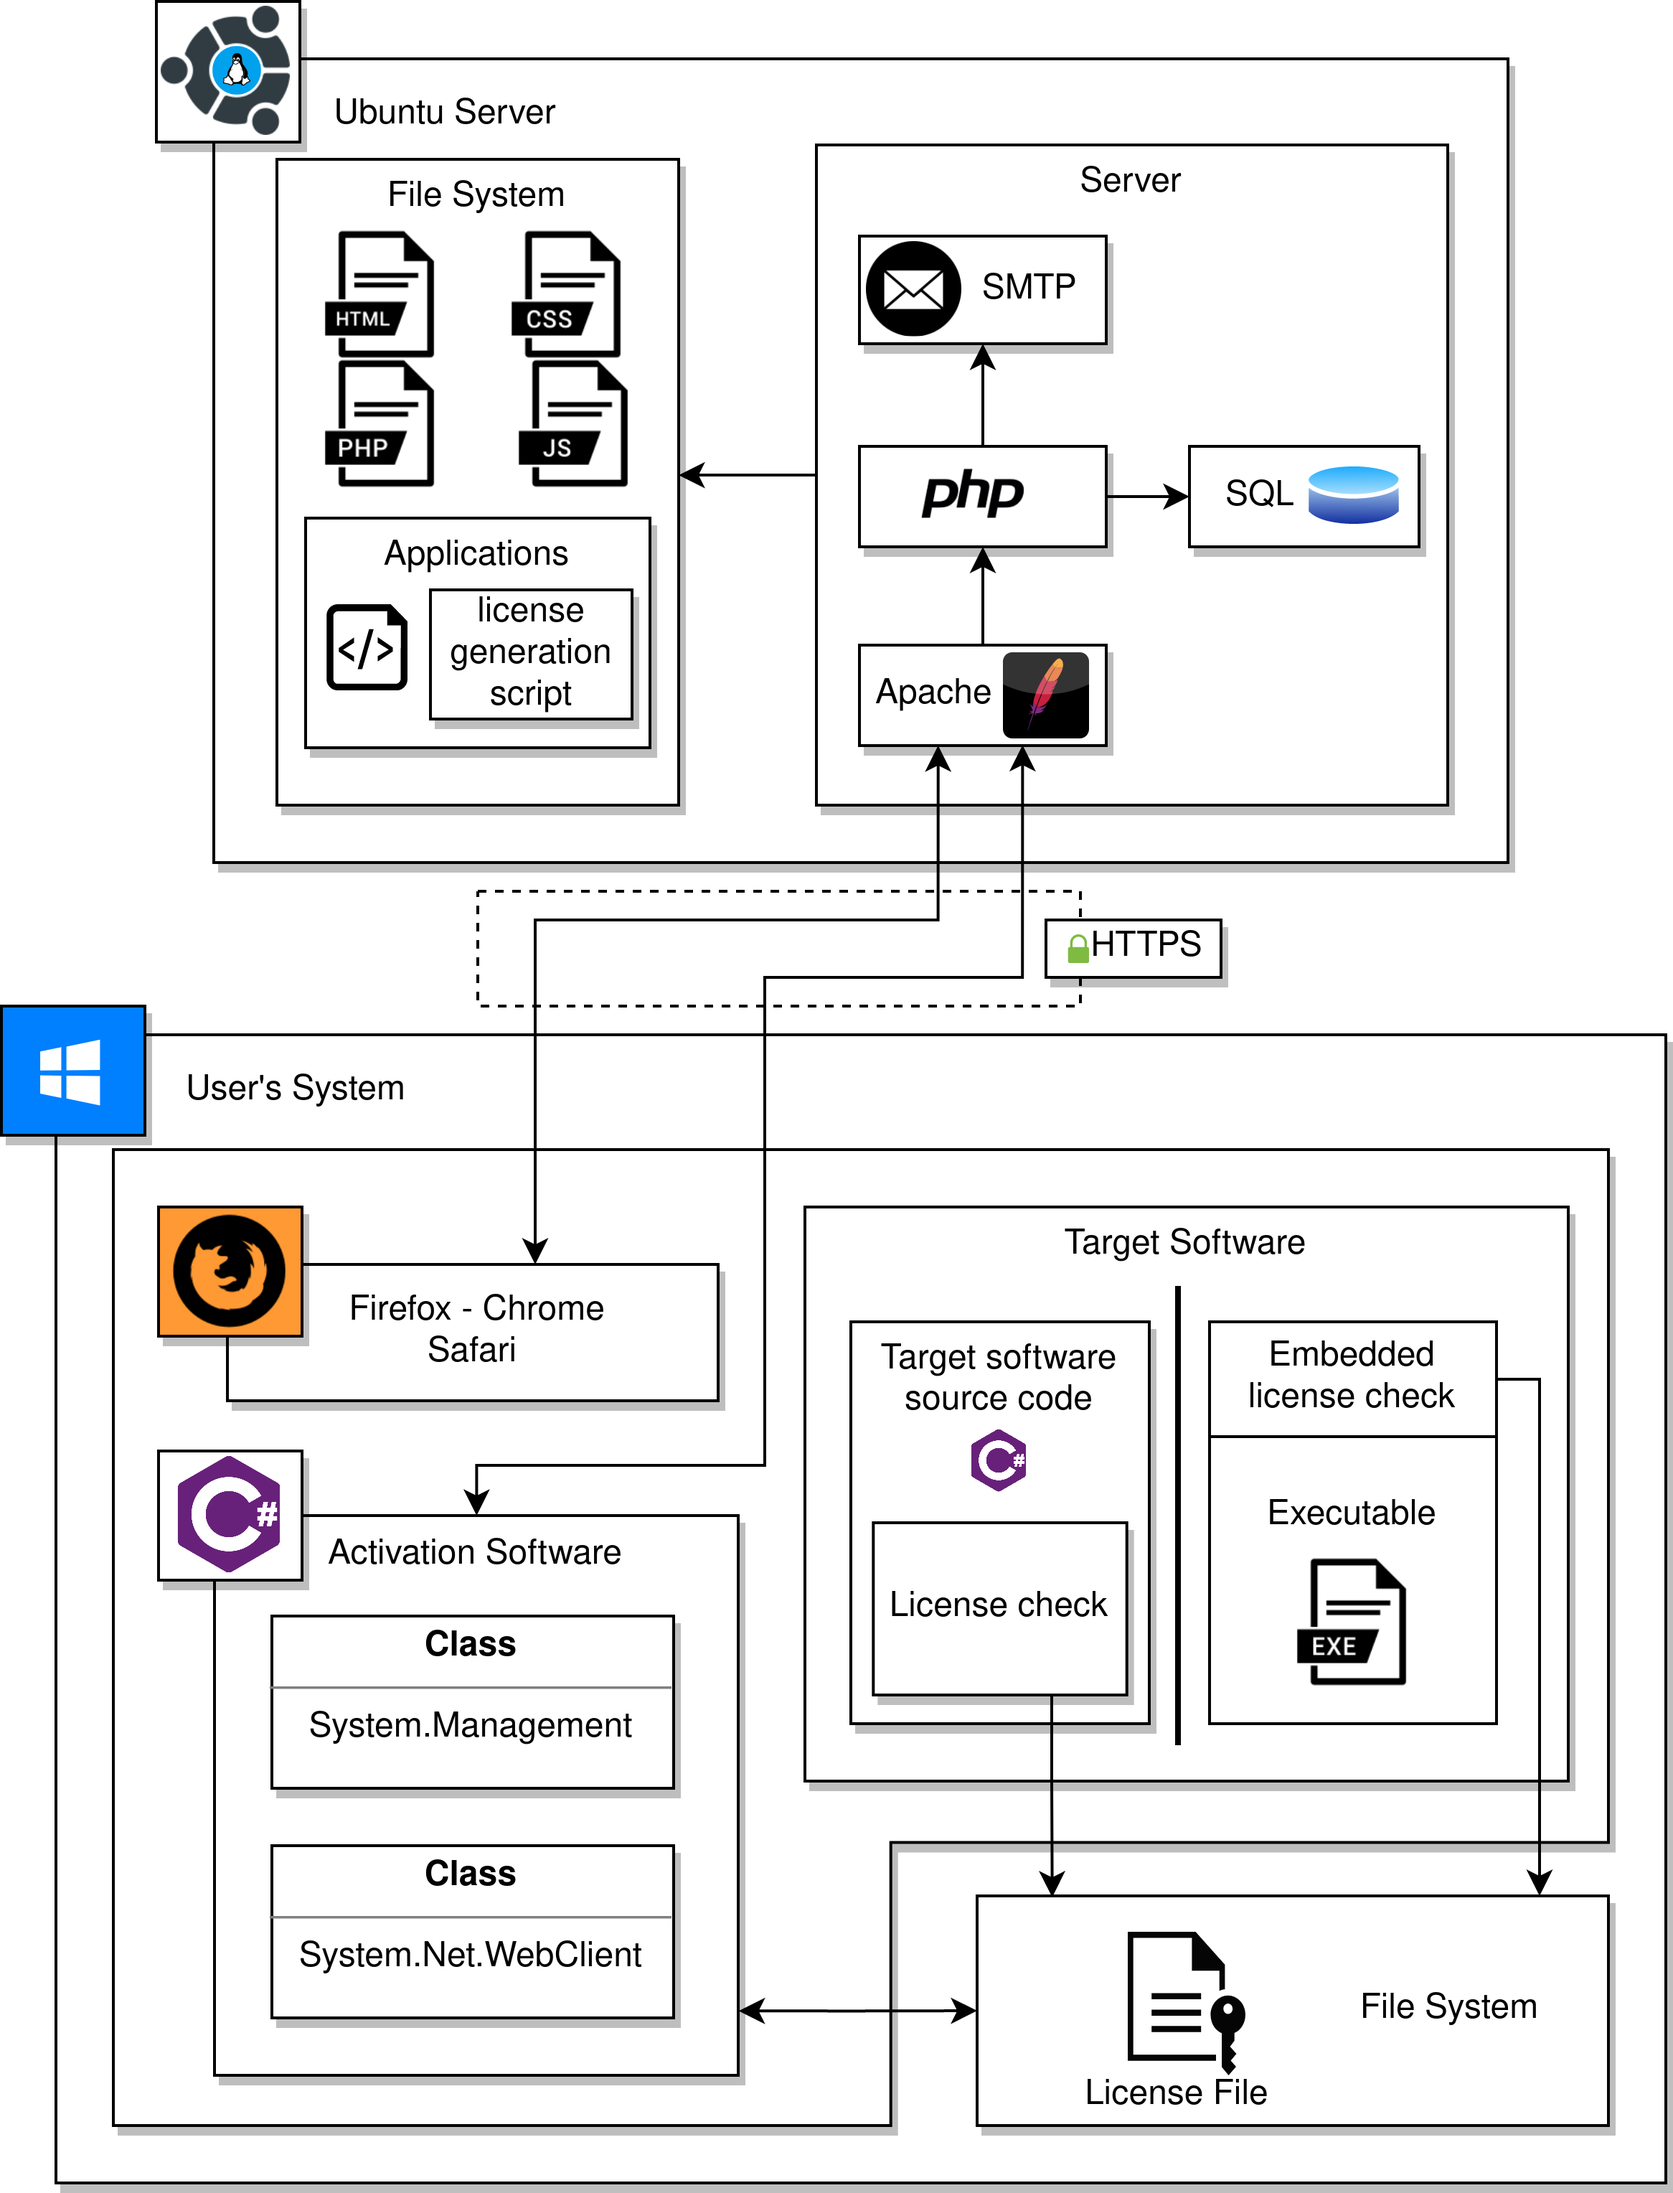
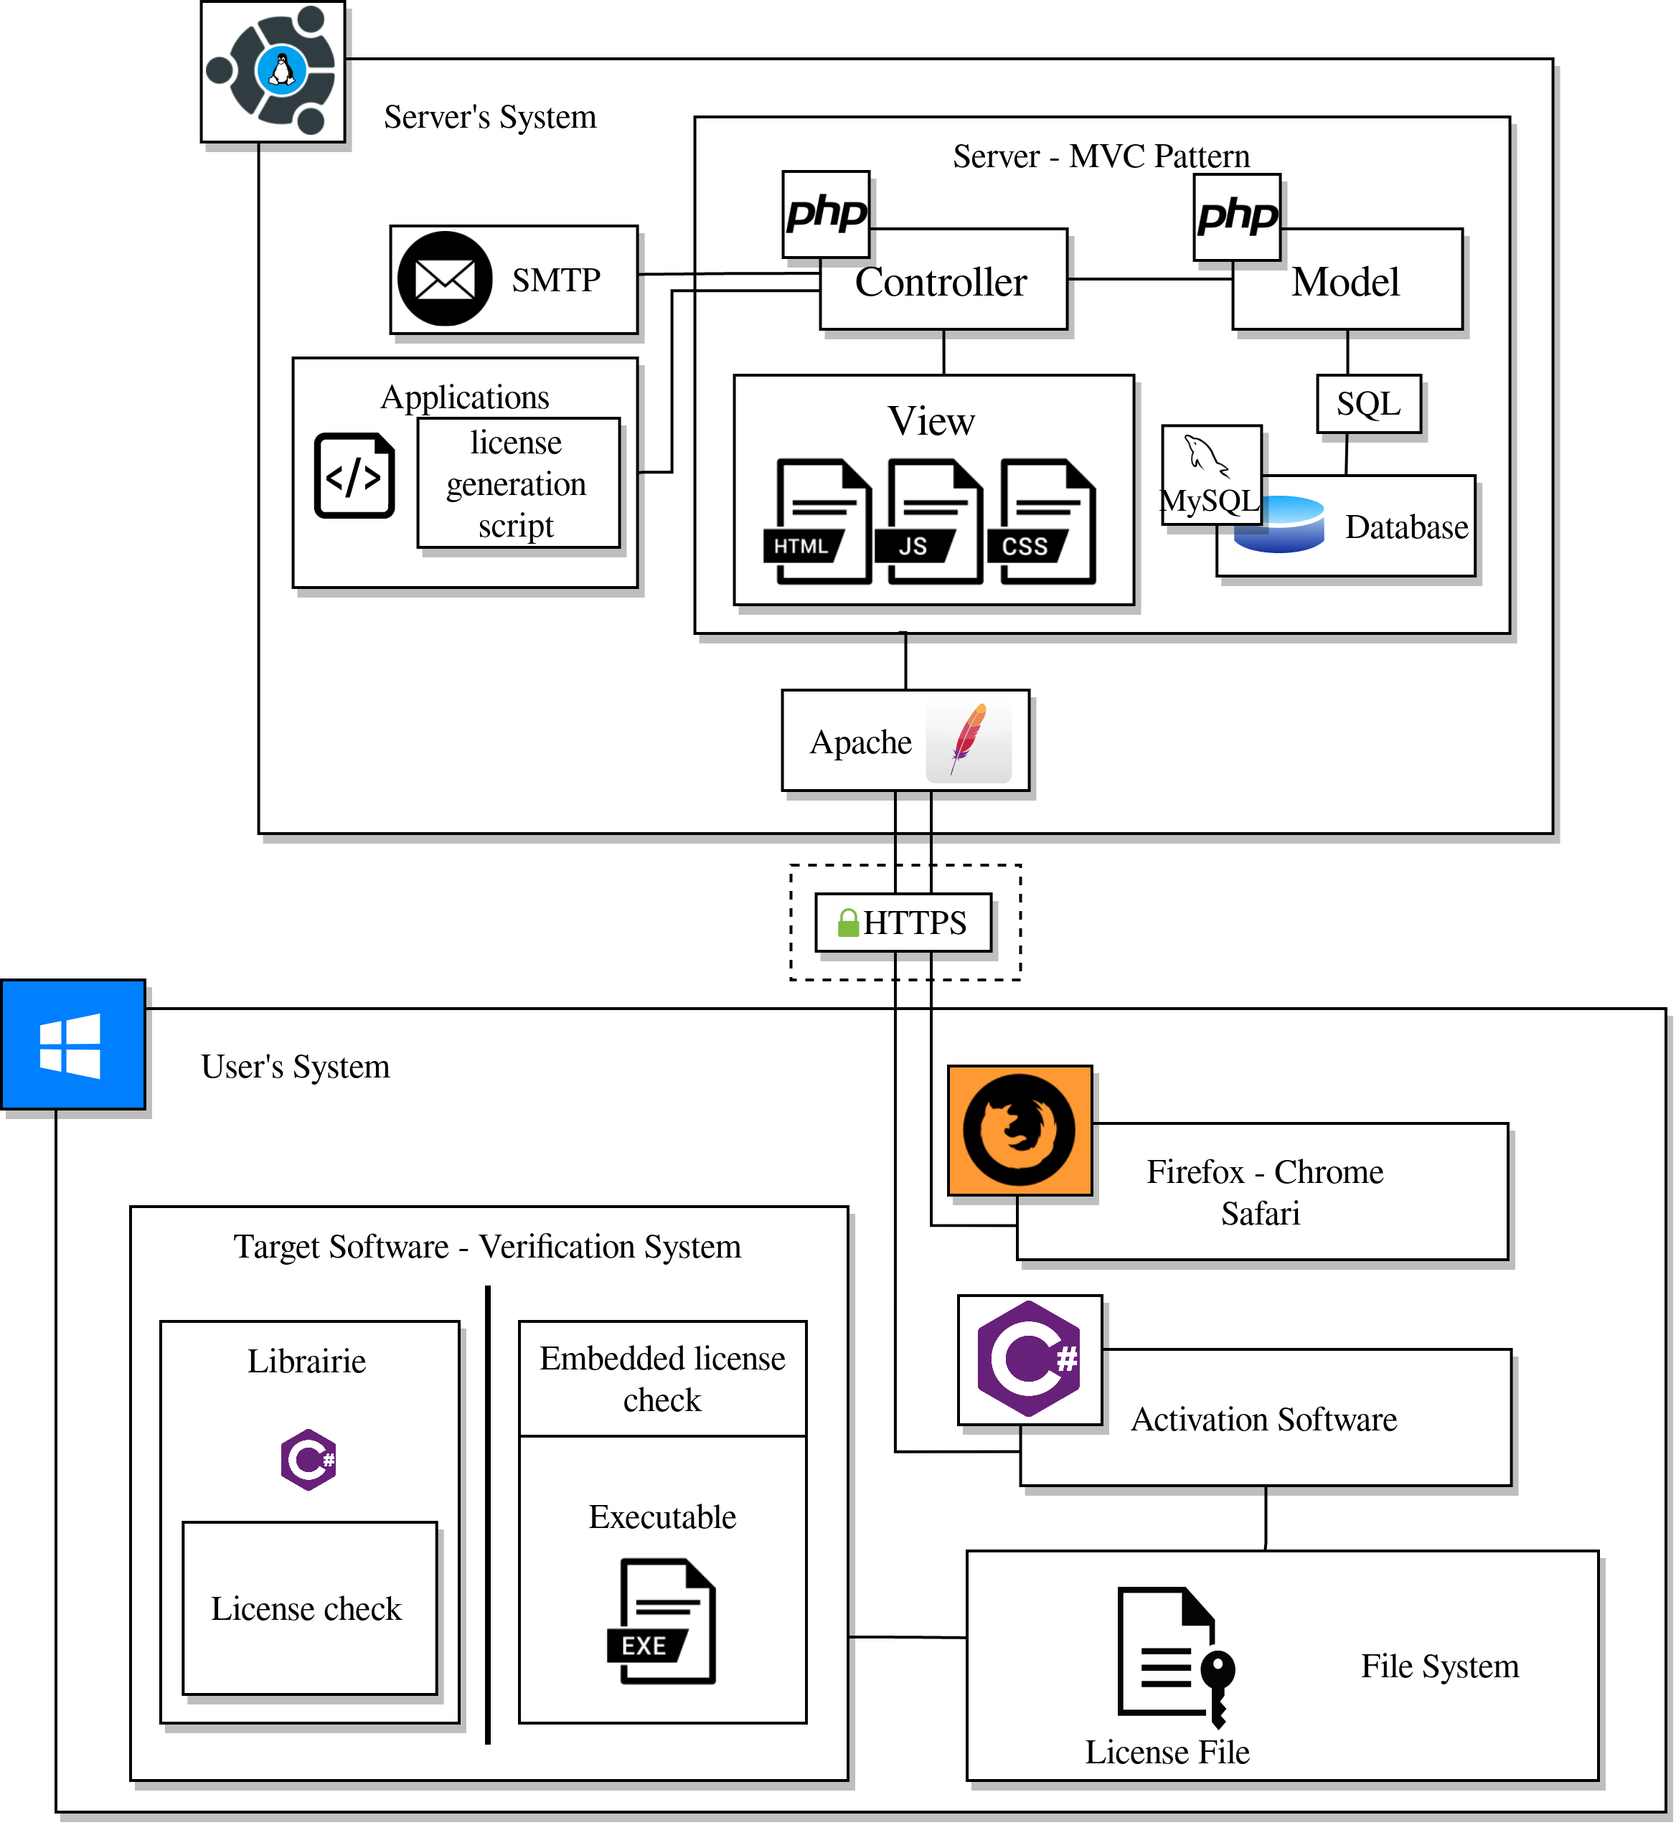
Modification du schéma général de la DAT

Changed region(s): [[0.0, 0.0, 1.0, 1.0]]

diff --git a/DAT/main/coding-convention.tex b/DAT/main/coding-convention.tex
@@ -64,6 +64,7 @@ Un commentaire doit être sur une seule ligne (ne peut pas être sur la même li
 que du code).
  
 \section{Nommages}
+La définition des constantes seront en majuscules séparé par des underscores.\newline
 Pour la définition d'un type, d'une struct ou d'une classe la notation 'PascalCase'
 sera utilisé: 
 \begin{minted}{c}

diff --git a/DAT/main/main.tex b/DAT/main/main.tex
@@ -281,8 +281,8 @@ C'est aussi dans un but pédagogique nous avons choisit d'implémenter nous mêm
 
 \chapter{Annexe}
 \label{chap:Annexe}
-
 \input{coding-convention.tex}
+\newpage
 
 \section{API PHP}
 \label{section:php}

diff --git a/DAT/main/api.php b/DAT/main/api.php
@@ -133,5 +133,4 @@ interface SoftwareTable
     public function delete(Software $software): int;
 
     public function update(Software $software): int;
-}
-?>
+}?>
